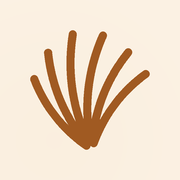
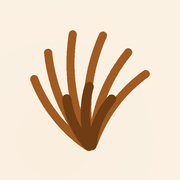
deploy 20260612-0212

Changed region(s): [[0.3333, 0.4444, 0.6667, 0.8611]]

diff --git a/index.html b/index.html
@@ -16,8 +16,8 @@
 @font-face{font-family:"Source Serif 4";src:url("./fonts/source-serif-italic-var.woff2") format("woff2");font-style:italic;font-weight:200 900;font-display:swap}
 @font-face{font-family:"Archivo";src:url("./fonts/archivo-var.woff2") format("woff2");font-weight:100 900;font-display:swap}
 </style>
-  <script type="module" crossorigin src="./assets/index-CzlzAZri.js"></script>
-  <link rel="stylesheet" crossorigin href="./assets/style-mKCXeVQG.css">
+  <script type="module" crossorigin src="./assets/index-DA186V-A.js"></script>
+  <link rel="stylesheet" crossorigin href="./assets/style-CMsRU46P.css">
 </head>
 <body>
 <div id="root"></div>

diff --git a/sw.js b/sw.js
@@ -2,8 +2,8 @@
    Hashed assets + fonts: cache-first (immutable). index.html, manifest, trip-data.enc:
    network-first with a short timeout, falling back to cache, so a weak signal never
    blocks boot. Cache name is stamped per deploy; old caches die on activate.
-   20260612015424 is substituted by scripts/deploy.sh. */
-const CACHE = "excurse-20260612015424";
+   20260612021247 is substituted by scripts/deploy.sh. */
+const CACHE = "excurse-20260612021247";
 const NET_TIMEOUT = 3500;
 
 self.addEventListener("install", () => self.skipWaiting());

diff --git a/assets/style-CMsRU46P.css b/assets/style-CMsRU46P.css
@@ -1,0 +1,2 @@
+*{-webkit-tap-highlight-color:transparent}:root{--paper:#faf7f2;--paper-deep:#f1ece2;--ink:#1c1915;--ink-soft:#575046;--ink-faint:#8b8276;--line:#dcd5c9;--trip-accent:#2f6b8a;--on-accent:#fff;--call-ahead:#9a6a1b;--breaking:#ae352c;--confirmed:#2f6b4d;--font-ui:"Inter",system-ui,-apple-system,sans-serif;--font-voice:"Source Serif 4",Georgia,serif;--font-display:"Archivo",var(--font-ui);--fs-caption:.75rem;--fs-meta:.8125rem;--fs-body:.9375rem;--fs-emph:1.0625rem;--fs-title:1.25rem;--fs-day:1.5rem;--fs-display:2rem;--fs-clock:2.75rem;--lh-tight:1.2;--lh-body:1.45;--s1:4px;--s2:8px;--s3:12px;--s4:16px;--s5:24px;--s6:40px;--s7:64px;--tap:48px;--r-card:12px;--r-sheet:20px;--r-chip:999px;--shadow-sheet:0 -8px 32px #1c191529;--t-micro:.14s;--t-state:.24s;--t-trans:.42s;--t-set:.7s;--ease-out:cubic-bezier(.2,.8,.2,1);--ease-cam:cubic-bezier(.45,0,.15,1);--z-thread:10;--z-pocket:50;--z-overlay:60;--z-veil:100;--bg:var(--paper);--fg:var(--ink)}[data-mode=dream]{--bg:#161826;--fg:#eceaf2;--ember:#e27840}[data-mode=shape]{--bg:var(--paper);--fg:var(--ink)}[data-mode=field]{--bg:#fff;--fg:#111009}[data-mode=field][data-theme=dark]{--bg:#121110;--fg:#f4f1ea;--call-ahead:#e6a84f}[data-mode=afterglow]{--bg:#f7efe3;--fg:#231a12;--ember:#b5722b}html[data-mode=field]{font-size:112.5%}.num{font-variant-numeric:tabular-nums}.voice{font-family:var(--font-voice);font-style:italic}.display{font-family:var(--font-display);font-weight:600;font-stretch:75%}@media (prefers-reduced-motion:reduce){:root{--t-micro:0s;--t-state:80ms;--t-trans:80ms;--t-set:80ms}}html[data-palette=la-summer]{--bg:#fbf1e3;--fg:#2a2118;--ink-faint:#a08c72;--ink-soft:#6b5b45;--line:#efe3cc;--paper-deep:#f3e6d0;--trip-accent:#a05a22}html[data-palette=la-summer][data-theme=dark]{--bg:#201a12;--fg:#f4ead9;--ink-faint:#a8917a;--ink-soft:#d6c3a8;--line:#3a2f22;--paper-deep:#2a2318;--trip-accent:#c98d52}html[data-palette=pacific]{--bg:#f4f6f2;--fg:#1a211d;--ink-faint:#7e8b82;--ink-soft:#4e5c53;--line:#dde4dc;--paper-deep:#e9efe7;--trip-accent:#3f7464}html[data-palette=pacific][data-theme=dark]{--bg:#161b18;--fg:#e2eae4;--ink-faint:#8a9990;--ink-soft:#b4c4ba;--line:#2c3630;--paper-deep:#1e2520;--trip-accent:#7fa795}html[data-palette=golden-hour]{--bg:#fcead4;--fg:#2b1d0e;--ink-faint:#a98b62;--ink-soft:#7a5c38;--line:#f0d9b7;--paper-deep:#f6e0c2;--trip-accent:#c2571b}html[data-palette=golden-hour][data-theme=dark]{--bg:#221409;--fg:#f4e3cc;--ink-faint:#b08a5f;--ink-soft:#d6b894;--line:#44301c;--paper-deep:#2c1d10;--trip-accent:#e78a45}html[data-palette=marine-layer]{--bg:#eff2f4;--fg:#1c2226;--ink-faint:#8a969e;--ink-soft:#51606b;--line:#dce3e8;--paper-deep:#e4eaee;--trip-accent:#4a7186}html[data-palette=marine-layer][data-theme=dark]{--bg:#14181b;--fg:#e4eaee;--ink-faint:#8fa0ab;--ink-soft:#b9c7d1;--line:#2a3339;--paper-deep:#1c2226;--trip-accent:#7fa4b9}html[data-palette=matcha]{--bg:#f3f4e8;--fg:#20241a;--ink-faint:#939a7e;--ink-soft:#5c6648;--line:#e2e5ce;--paper-deep:#eaedda;--trip-accent:#5f7a3d}html[data-palette=matcha][data-theme=dark]{--bg:#181b12;--fg:#e9eddc;--ink-faint:#99a284;--ink-soft:#c2ccab;--line:#303626;--paper-deep:#21251a;--trip-accent:#97b264}html[data-palette=ktown-neon]{--bg:#fbeff4;--fg:#241318;--ink-faint:#a4798b;--ink-soft:#6e4356;--line:#f2dce6;--paper-deep:#f6e3ec;--trip-accent:#c2347e}html[data-palette=ktown-neon][data-theme=dark]{--bg:#150a10;--fg:#f6e4ee;--ink-faint:#a77e92;--ink-soft:#d3a8bf;--line:#3a2230;--paper-deep:#20121a;--trip-accent:#f056a8}html[data-palette=paper][data-theme=dark]{--bg:#1b1916;--fg:#efeae2;--ink-faint:#9a9184;--ink-soft:#c9c0b2;--line:#332f29;--paper-deep:#242019;--trip-accent:#c9a06a}html[data-typestyle=editorial]{--font-display:Georgia,"Iowan Old Style","Times New Roman",serif}html[data-typestyle=editorial] .display{font-weight:600;font-stretch:100%}html[data-typestyle=soft]{--font-display:var(--font-ui);--r-card:16px}html[data-typestyle=soft] .display{letter-spacing:-.01em;font-weight:700;font-stretch:100%}html[data-ts=large]{font-size:115%}html[data-mode=field][data-ts=large]{font-size:126%}*{box-sizing:border-box;min-width:0}html,body{margin:0}body{background:var(--bg);color:var(--fg);font-family:var(--font-ui);font-size:var(--fs-body);line-height:var(--lh-body);overflow-wrap:break-word}button{font:inherit;color:inherit;cursor:pointer;min-height:var(--tap);background:0 0;border:0;padding:0}a{color:inherit}:focus-visible{outline:2px solid var(--trip-accent);outline-offset:2px;border-radius:4px}.page{max-width:560px;padding:var(--s3) var(--s4) calc(96px + env(safe-area-inset-bottom));margin:0 auto}.pagehead{padding:var(--s4) 0 var(--s2);justify-content:space-between;align-items:baseline;display:flex}.pagehead .display{font-size:var(--fs-display)}.pagehead .sub{color:var(--ink-faint);font-size:var(--fs-meta)}.greet{padding:var(--s4) 0 var(--s2)}.greet h1{font-size:var(--fs-day);font-weight:600;line-height:var(--lh-tight);margin:0}.greet .sub{color:var(--ink-faint);font-size:var(--fs-meta);margin-top:var(--s1)}.tabbar{z-index:var(--z-pocket);background:var(--bg);border-top:1.5px solid var(--line);padding:var(--s2) var(--s2) calc(var(--s2) + env(safe-area-inset-bottom));justify-content:space-around;align-items:stretch;display:flex;position:fixed;bottom:0;left:0;right:0}.tabbar .tab{font-size:var(--fs-caption);color:var(--ink-faint);border-radius:var(--r-card);flex-direction:column;flex:1;align-items:center;gap:2px;display:flex}.tabbar .tab svg{width:22px;height:22px}.tabbar .tab[aria-selected=true]{color:var(--trip-accent);font-weight:600}.tabbar .wallet-btn{background:var(--trip-accent);width:58px;height:58px;color:var(--on-accent);box-shadow:var(--shadow-sheet);border:3px solid var(--bg);border-radius:50%;flex:none;justify-content:center;align-items:center;margin-top:-26px;display:flex}.tabbar .wallet-btn svg{width:26px;height:26px}.hero{border:1.5px solid var(--line);border-radius:var(--r-card);padding:var(--s5);margin-top:var(--s3);background:var(--bg)}.hero .leaveby{font-size:var(--fs-caption);letter-spacing:.1em;color:var(--trip-accent);font-weight:600}.hero .clock{font-size:var(--fs-clock);margin:var(--s1) 0;line-height:1.05}.hero .in{color:var(--ink-faint);font-size:var(--fs-meta)}.hero h2{font-size:var(--fs-title);margin:var(--s3) 0 var(--s1);font-weight:600;line-height:var(--lh-tight)}.hero .fact{color:var(--ink-soft)}.hero .ring-row{align-items:center;gap:var(--s4);justify-content:space-between;display:flex}.meanwhile{margin-top:var(--s4);color:var(--ink-faint);font-size:var(--fs-meta);text-align:left;width:100%;padding:var(--s2) 0}.later{margin-top:var(--s5)}.later .lbl,.seclbl{font-size:var(--fs-caption);letter-spacing:.08em;color:var(--ink-faint);text-transform:uppercase;margin-bottom:var(--s1)}.later .row{gap:var(--s3);padding:var(--s3) 0;border-top:1px solid var(--line);text-align:left;align-items:baseline;width:100%;display:flex}.later .row .t{color:var(--ink-faint);min-width:72px;font-size:var(--fs-meta);flex:none}.daychips{gap:var(--s2);padding:var(--s2) 0 var(--s3);scrollbar-width:none;display:flex;overflow-x:auto}.daychips::-webkit-scrollbar{display:none}.daychips button{border:1.5px solid var(--line);min-width:56px;height:56px;font-weight:600;font-size:var(--fs-emph);border-radius:50%;flex:none;justify-content:center;align-items:center;display:flex}.daychips button[aria-selected=true]{background:var(--trip-accent);color:var(--on-accent);border-color:var(--trip-accent)}.daychips button .d{font-size:var(--fs-caption);font-weight:400;display:block}.dayhead{padding:var(--s2) 0}.brief{color:var(--ink-faint);font-size:var(--fs-meta);margin-top:var(--s1)}.card{border:1.5px solid var(--line);border-radius:var(--r-card);margin:var(--s3) 0;background:var(--bg)}.card.single{border-style:dashed}.card.backupghost{opacity:.8;border-style:dashed;width:94%;margin-left:auto}.card.freeform{background:var(--paper-deep);border-style:none}.card.past{opacity:.55}.card>summary{padding:var(--s4);cursor:pointer;min-height:var(--tap);list-style:none;position:relative}.card>summary::-webkit-details-marker{display:none}.card>summary:after{content:"";right:var(--s4);border-right:1.5px solid var(--ink-faint);border-bottom:1.5px solid var(--ink-faint);width:8px;height:8px;transition:transform var(--t-micro);position:absolute;top:calc(50% - 4px);transform:rotate(45deg)}.card[open]>summary:after{transform:rotate(225deg)}.meta-row{gap:var(--s2);font-size:var(--fs-meta);color:var(--ink-faint);padding-right:var(--s5);flex-wrap:wrap;align-items:baseline;display:flex}.card h3{margin:var(--s1) 0 0;font-size:var(--fs-emph);font-weight:600;line-height:var(--lh-tight);padding-right:var(--s5)}.card.struck h3{color:var(--ink-faint);text-decoration:line-through}.card .fact{color:var(--ink-soft);font-size:var(--fs-meta);margin-top:var(--s1)}.card .body{padding:0 var(--s4) var(--s4)}.voiceline{text-align:left;width:100%;color:var(--ink-soft);font-size:var(--fs-emph);padding:var(--s2) 0;line-height:var(--lh-body);display:block}.voiceline.clamped{-webkit-line-clamp:2;-webkit-box-orient:vertical;display:-webkit-box;overflow:hidden}.lrow{gap:var(--s2);margin:var(--s2) 0;font-size:var(--fs-meta);color:var(--ink-soft);display:flex}.lrow .k{color:var(--ink-faint);flex:none;min-width:72px}.headsup{margin:var(--s2) 0;font-size:var(--fs-meta);color:var(--ink-soft)}.actchips{gap:var(--s2);margin-top:var(--s3);flex-wrap:wrap;display:flex}.chip{border:1.5px solid var(--line);border-radius:var(--r-chip);padding:var(--s2) var(--s4);font-size:var(--fs-meta);min-height:var(--tap);background:var(--bg);align-items:center;text-decoration:none;display:inline-flex}.chip.primary{background:var(--trip-accent);color:var(--on-accent);border-color:var(--trip-accent)}.chip.callahead{border-color:var(--call-ahead);color:var(--call-ahead)}.receipts{margin-top:var(--s3);font-size:var(--fs-caption);color:var(--ink-faint)}.fork-tag{font-size:var(--fs-caption);letter-spacing:.06em;color:var(--trip-accent)}.pocket-tag{font-size:var(--fs-caption);letter-spacing:.06em;color:var(--ink-faint)}.option{border:1px solid var(--line);border-radius:var(--r-card);padding:var(--s3);margin:var(--s2) 0}.option .read{font-size:var(--fs-meta);color:var(--ink-soft);font-family:var(--font-voice);font-style:italic}.option .tr{font-size:var(--fs-caption);color:var(--ink-faint);margin-top:var(--s1)}.flap{border:1px dashed var(--line);border-left:3px solid var(--line);border-radius:0 var(--r-card) var(--r-card) 0;margin:0 0 var(--s3) var(--s4);background:var(--paper-deep)}.flap>summary{padding:var(--s3) var(--s4);font-size:var(--fs-meta);color:var(--ink-faint);cursor:pointer;min-height:var(--tap);align-items:center;list-style:none;display:flex}.flap>summary::-webkit-details-marker{display:none}.flap .g-ent{padding:var(--s3) var(--s4);border-top:1px solid var(--line)}.flap .g-ent .nm{font-weight:600;font-size:var(--fs-meta)}.flap .g-ent .hrs{color:var(--trip-accent);font-size:var(--fs-caption);margin-left:var(--s2)}.flap .g-ent .why{font-size:var(--fs-meta);color:var(--ink-soft)}.dayrail{padding-left:var(--s5);position:relative}.dayrail:before{content:"";background:var(--line);width:1.5px;position:absolute;top:0;bottom:0;left:9px}.railnode{background:var(--bg);border:1.5px solid var(--ink-faint);border-radius:50%;width:13px;height:13px;margin-top:26px;position:absolute;left:3px}.railnode.decision{border-color:var(--trip-accent);border-radius:2px;transform:rotate(45deg)}.railnode.backupn{border-style:dotted}.wsheet-scrim{z-index:var(--z-overlay);opacity:0;pointer-events:none;transition:opacity var(--t-state);background:#[phone redacted];position:fixed;top:0;bottom:0;left:0;right:0}.wsheet-scrim.open{opacity:1;pointer-events:auto}.wsheet{z-index:var(--z-overlay);background:var(--paper-deep);border-radius:var(--r-sheet) var(--r-sheet) 0 0;box-shadow:var(--shadow-sheet);transition:transform var(--t-trans) var(--ease-out);flex-direction:column;max-height:90dvh;display:flex;position:fixed;bottom:0;left:0;right:0;transform:translateY(102%)}.wsheet.open{transform:none}.wsheet .whead{padding:var(--s4) var(--s5) var(--s2);justify-content:space-between;align-items:center;display:flex}.wsheet .whead .display{font-size:var(--fs-title)}.wsheet .whead button{color:var(--ink-faint);font-size:var(--fs-meta);padding:0 var(--s2)}.wstack{padding:var(--s3) var(--s4) calc(var(--s6) + env(safe-area-inset-bottom));overflow:auto}.wcard{border-radius:var(--r-card);background:var(--bg);border:1.5px solid var(--line);margin-top:calc(-1 * var(--s7));text-align:left;width:100%;transition:margin var(--t-state) var(--ease-out);padding:0;display:block;overflow:hidden;box-shadow:0 -4px 16px #1c19151a}.wcard .band{background:var(--trip-accent);height:6px}.wcard.k-stay .band{background:var(--confirmed)}.wcard.k-car .band{background:var(--call-ahead)}.wcard.k-policy .band{background:var(--ink-faint)}.wcard.k-other .band{background:var(--ink-soft)}.wcard .wface{padding:var(--s4) var(--s5) var(--s5)}.wcard .kind{font-size:var(--fs-caption);color:var(--ink-faint);letter-spacing:.08em;text-transform:uppercase}.wcard .nm{font-weight:600;font-size:var(--fs-emph);line-height:var(--lh-tight);margin-top:2px}.wcard .peek{color:var(--ink-faint);font-size:var(--fs-meta);white-space:nowrap;text-overflow:ellipsis;margin-top:2px;overflow:hidden}.wcard.active,.wcard.active~.wcard{margin-top:var(--s3)}.wbody{padding:0 var(--s5) var(--s5)}.wbody .bigcode{font-size:var(--fs-display);font-family:var(--font-display);letter-spacing:.04em;padding:var(--s2) 0 var(--s3);text-align:left;word-break:break-all;width:100%;font-weight:600;font-stretch:75%}.wbody .bigcode.copied{color:var(--confirmed)}.wbody .note{font-size:var(--fs-body);color:var(--ink-soft);padding:var(--s2) 0}.wbody .row{gap:var(--s3);padding:var(--s2) 0;border-top:1px solid var(--line);font-size:var(--fs-meta);display:flex}.wbody .row .k{color:var(--ink-faint);flex:none;width:108px}.wbody .row .v{flex:1}.seg{gap:var(--s1);background:var(--paper-deep);border-radius:var(--r-chip);margin:var(--s2) 0 var(--s4);scrollbar-width:none;padding:4px;display:flex;overflow-x:auto}.seg::-webkit-scrollbar{display:none}.seg button{white-space:nowrap;border-radius:var(--r-chip);padding:var(--s2) var(--s4);font-size:var(--fs-meta);flex:1;min-height:40px}.seg button[aria-selected=true]{background:var(--bg);font-weight:600;box-shadow:0 1px 4px #1c19151f}.seg .badge{font-size:var(--fs-caption);color:var(--ink-faint);margin-left:6px}.demand{border:1.5px solid var(--line);border-radius:var(--r-card);padding:var(--s4);margin:var(--s3) 0}.demand .nm{font-weight:600;font-size:var(--fs-emph)}.demand .why{color:var(--ink-soft);font-size:var(--fs-meta);margin:var(--s1) 0 var(--s3)}.slotrow{align-items:center;gap:var(--s3);margin:var(--s2) 0;display:flex}.slotrow .k{font-size:var(--fs-caption);letter-spacing:.06em;text-transform:uppercase;color:var(--trip-accent);flex:none;width:88px}.slotrow input{border:0;border-bottom:1.5px solid var(--line);color:var(--fg);font:inherit;font-size:var(--fs-meta);padding:var(--s2) 2px;min-height:var(--tap);background:0 0;border-radius:0;flex:1}.slotrow input:focus{border-bottom-color:var(--trip-accent);outline:none}.slotrow input::placeholder{color:var(--ink-faint);font-style:italic}.pcat{margin:var(--s4) 0}.pcat .ph{justify-content:space-between;align-items:baseline;display:flex}.pcat .ph .nm{font-weight:600}.pcat .prog{font-size:var(--fs-caption);color:var(--ink-faint);border:1px solid var(--line);border-radius:var(--r-chip);padding:2px 10px}.pcat .prog.done{color:var(--confirmed);border-color:var(--confirmed)}.checkrow{gap:var(--s3);padding:var(--s3) 0;border-top:1px solid var(--line);align-items:flex-start;display:flex}.checkrow input{width:22px;height:22px;accent-color:var(--trip-accent);flex:none;margin-top:2px}.checkrow label,.checkrow .le-textwrap{flex:1}.checkrow .why{color:var(--ink-faint);font-size:var(--fs-caption);display:block}.checkrow.done label{color:var(--ink-faint)}.checkrow.done .main{text-decoration:line-through}.le-text{-webkit-line-clamp:2;-webkit-box-orient:vertical;display:-webkit-box;overflow:hidden}.le-text.full{display:block}.le-more{color:var(--trip-accent);font-size:var(--fs-caption);padding:var(--s1) 0;min-height:0}.le-due{color:var(--call-ahead);font-size:var(--fs-caption)}.donewrap{margin-top:var(--s5)}.donewrap>summary{cursor:pointer;color:var(--ink-faint);font-size:var(--fs-meta);padding:var(--s3) 0;min-height:var(--tap);align-items:center;gap:var(--s2);list-style:none;display:flex}.donewrap>summary::-webkit-details-marker{display:none}.emptystate{border:1.5px dashed var(--line);border-radius:var(--r-card);padding:var(--s5);color:var(--ink-faint);text-align:center;margin:var(--s4) 0}.pastefield{border:1.5px solid var(--line);border-radius:var(--r-card);background:var(--bg);width:100%;color:var(--fg);font:inherit;font-size:var(--fs-meta);padding:var(--s4);min-height:88px}.set-group{margin:var(--s5) 0}.set-group .lbl{font-size:var(--fs-caption);letter-spacing:.08em;text-transform:uppercase;color:var(--ink-faint);margin-bottom:var(--s2)}.set-row{gap:var(--s2);flex-wrap:wrap;display:flex}.set-row button,.set-row a{border:1.5px solid var(--line);border-radius:var(--r-chip);padding:var(--s2) var(--s4);font-size:var(--fs-meta);align-items:center;gap:var(--s2);min-height:var(--tap);background:var(--bg);text-decoration:none;display:inline-flex}.set-row [aria-pressed=true]{border-color:var(--trip-accent);color:var(--trip-accent);font-weight:600}.swatch{border:1px solid var(--line);border-radius:50%;flex:none;width:16px;height:16px}.veil{z-index:var(--z-veil);background:var(--bg);padding:var(--s5);text-align:center;justify-content:center;align-items:center;display:flex;position:fixed;top:0;bottom:0;left:0;right:0;overflow:hidden}.veil .box{z-index:2;width:min(360px,92vw);position:relative}.veil .box:before{content:"";z-index:-1;background:radial-gradient(closest-side,var(--bg) 55%,transparent);position:absolute;top:-12%;bottom:-12%;left:-12%;right:-12%}.veil h1{font-size:var(--fs-display);margin:0 0 var(--s2)}.veil p{color:var(--ink-faint);font-size:var(--fs-meta)}.veil input{border:1.5px solid var(--line);border-radius:var(--r-card);width:100%;padding:var(--s4);font-size:var(--fs-emph);background:var(--bg);color:var(--fg);text-align:center;margin:var(--s4) 0}.veil .go{background:var(--trip-accent);width:100%;color:var(--on-accent);border-radius:var(--r-card);padding:var(--s4);font-weight:600}.veil.err .box{animation:shake var(--t-micro) 1}@keyframes shake{25%{transform:translate(-6px)}75%{transform:translate(6px)}}.lens-grid{gap:var(--s3);margin-top:var(--s4);flex-wrap:wrap;justify-content:center;display:flex}.lens-grid button{border:1.5px solid var(--line);border-radius:var(--r-chip);padding:var(--s3) var(--s5);font-size:var(--fs-emph)}.sect{margin:var(--s3) 0}.sect h4{font-size:var(--fs-caption);letter-spacing:.1em;text-transform:uppercase;color:var(--trip-accent);margin:0 0 var(--s1);border-bottom:1.5px solid var(--line);padding-bottom:3px;font-weight:600;display:inline-block}.sect p{margin:var(--s1) 0;color:var(--ink-soft);font-size:var(--fs-meta);line-height:var(--lh-body)}.card h3,.demand .nm,.pcat .ph .nm,.wcard .nm,.hero h2,.greet h1{font-family:var(--font-display);font-stretch:75%}html[data-typestyle=editorial] .card h3,html[data-typestyle=editorial] .demand .nm,html[data-typestyle=editorial] .pcat .ph .nm,html[data-typestyle=editorial] .wcard .nm,html[data-typestyle=editorial] .hero h2,html[data-typestyle=editorial] .greet h1{font-stretch:100%}html[data-typestyle=soft] .card h3,html[data-typestyle=soft] .demand .nm,html[data-typestyle=soft] .pcat .ph .nm,html[data-typestyle=soft] .wcard .nm,html[data-typestyle=soft] .hero h2,html[data-typestyle=soft] .greet h1{letter-spacing:-.01em;font-stretch:100%}.wcard{margin-top:-10px}.wstack .wcard:first-child{margin-top:0}.wcard .wface{justify-content:space-between;align-items:center;gap:var(--s3);text-align:left;width:100%;padding:var(--s4) var(--s5);min-height:var(--tap);display:flex}.wcard .wface .nm{font-size:var(--fs-emph);white-space:nowrap;text-overflow:ellipsis;margin:0;overflow:hidden}.wcard .wface .kind{flex:none}.wcard.active{margin:var(--s3) 0}.wcard.active+.wcard{margin-top:var(--s3)}.wsect{font-size:var(--fs-caption);letter-spacing:.1em;text-transform:uppercase;color:var(--trip-accent);margin:var(--s4) 0 var(--s1);border-bottom:1.5px solid var(--line);padding-bottom:3px;font-weight:600;display:inline-block}.seg button{justify-content:center;align-items:center;gap:6px;display:inline-flex}.segbadge{background:var(--line);color:var(--ink-soft);border-radius:var(--r-chip);font-size:var(--fs-caption);padding:4px 8px;line-height:1}.seg button[aria-selected=true] .segbadge{background:var(--trip-accent);color:var(--on-accent)}.le-body{flex:1;min-width:0}.le-foot{margin-top:var(--s1);justify-content:space-between;align-items:center;display:flex}.le-chev{width:40px;min-height:32px;color:var(--ink-faint);justify-content:flex-start;align-items:center;display:flex}.le-chev svg{transition:transform var(--t-micro)}.le-chev.open svg{transform:rotate(180deg)}.le-due{color:var(--call-ahead);font-size:var(--fs-caption);margin-left:auto}.hint{color:var(--ink-faint);font-size:var(--fs-meta);margin:var(--s1) 0 var(--s3)}.slotrow{align-items:flex-start}.slotrow .k .rec{color:var(--ink-faint);text-transform:none;letter-spacing:0}.chipfield{align-items:center;gap:var(--s1);min-height:var(--tap);border-bottom:1.5px solid var(--line);padding-bottom:var(--s2);flex-wrap:wrap;flex:1;display:flex}.fitchip{border:1px solid var(--line);background:var(--paper-deep);border-radius:8px;align-items:center;max-width:100%;display:inline-flex}.fitchip-main{font-size:var(--fs-meta);text-align:left;min-height:32px;padding:6px 10px}.fitchip.open{border-color:var(--breaking)}.fitchip-x{min-height:32px;color:var(--breaking);font-size:var(--fs-emph);padding:0 10px}.fitplus{color:var(--trip-accent);font-size:var(--fs-meta);min-height:32px;padding:4px 8px}.fitadd{border:0;border-bottom:1.5px solid var(--trip-accent);color:var(--fg);font:inherit;font-size:var(--fs-meta);background:0 0;border-radius:0;min-width:130px;padding:4px 2px}.fitadd:focus{outline:none}.wip{border:1px dashed var(--call-ahead);color:var(--call-ahead);border-radius:var(--r-chip);margin-left:var(--s2);letter-spacing:.04em;text-transform:none;padding:2px 8px;font-size:10px;font-weight:400}.wpeek{align-items:center;gap:var(--s3);text-align:left;border:1.5px solid var(--line);border-radius:var(--r-card);width:100%;padding:var(--s4);background:var(--bg);display:flex}.wpeek .kind{font-size:var(--fs-caption);color:var(--trip-accent);letter-spacing:.08em;text-transform:uppercase;flex:none}.wpeek .nm{white-space:nowrap;text-overflow:ellipsis;flex:1;min-width:0;font-weight:600;overflow:hidden}.wpeek .code{color:var(--ink-faint);font-size:var(--fs-meta);flex:none}.progressbar{background:var(--paper-deep);border:1px solid var(--line);border-radius:3px;height:6px;display:block;overflow:hidden}.progressbar i{background:var(--trip-accent);height:100%;display:block}.le-note{color:var(--ink-faint);font-size:var(--fs-meta);margin-top:var(--s2);line-height:var(--lh-body);display:block}.veil,.splash{padding-top:calc(var(--s5) + env(safe-area-inset-top))}.splash{z-index:var(--z-veil);background:var(--bg);text-align:center;justify-content:center;align-items:center;display:flex;position:fixed;top:0;bottom:0;left:0;right:0;overflow:hidden}.splash-box{z-index:2;padding:var(--s6) var(--s5);animation:rise var(--t-set) var(--ease-out) both;position:relative}.splash-box:before{content:"";z-index:-1;background:radial-gradient(closest-side,var(--bg) 52%,transparent);position:absolute;top:-14%;bottom:-14%;left:-14%;right:-14%}.splash-mark{font-family:var(--font-voice);color:var(--trip-accent);font-style:italic;font-size:var(--fs-title);letter-spacing:.05em;margin-bottom:var(--s4)}.splash-box h1{font-family:var(--font-voice);letter-spacing:-.01em;margin:0;font-size:max(2.4rem,min(9vw,3.2rem));font-style:italic;font-weight:620;line-height:1.08}.splash-dates{color:var(--ink-soft);margin-top:var(--s3);font-size:var(--fs-meta);letter-spacing:.16em;text-transform:uppercase}.splash-welcome{color:var(--trip-accent);font-size:var(--fs-title);margin-top:var(--s4)}@keyframes rise{0%{opacity:0;transform:translateY(14px)}to{opacity:1;transform:none}}.veil h1{font-family:var(--font-voice);letter-spacing:-.01em;font-size:2.2rem;font-style:italic;font-weight:620;font-stretch:100%}.frond{--base:0deg;--fsz:min(120vw,600px);width:var(--fsz);z-index:1;fill:none;height:auto;stroke:var(--trip-accent);opacity:.5;left:calc(var(--fsz) * -.05 - 10px);bottom:calc(var(--fsz) * -.05 - 10px);transform:rotate(var(--base));transform-origin:5% 95%;animation:frondenter 1.2s var(--ease-out) both,frondsway 6s ease-in-out 2.2s infinite alternate;position:absolute}.frond.flip{--base:180deg;bottom:auto;left:auto;right:calc(var(--fsz) * -.05 - 10px);top:calc(var(--fsz) * -.05 - 10px);transform-origin:50%}.frond .leaf{stroke-linecap:round;opacity:0;animation:leafin .42s var(--ease-out) both;animation-delay:var(--d)}.frond .leafw{transform-box:view-box;transform-origin:8px 152px;transform:rotate(var(--rot)) scale(var(--ls,1))}.frond .leafw.back .leaf{opacity:0;stroke:color-mix(in srgb,var(--trip-accent) 55%,var(--bg) 45%);animation:leafin-back .42s var(--ease-out) both;animation-delay:var(--d)}@keyframes leafin-back{to{opacity:.75}}.frond .leafw.fore .leaf{stroke-width:3px;opacity:0;stroke:color-mix(in srgb,var(--trip-accent) 62%,var(--fg) 38%);animation:leafin .42s var(--ease-out) both;animation-delay:var(--d)}@keyframes leafin{to{opacity:1}}@keyframes frondenter{0%{transform:rotate(calc(var(--base) - 8deg)) scale(.55);opacity:0}}@keyframes frondsway{0%{transform:rotate(var(--base))}to{transform:rotate(calc(var(--base) + 1.6deg))}}@media (prefers-reduced-motion:reduce){.frond{opacity:.5;animation:none}.frond .leafw,.frond .leaf{opacity:1;animation:none}.splash-box{animation:none}}.timeshift{justify-content:center;align-items:center;gap:var(--s4);margin-top:var(--s2);color:var(--ink-faint);display:flex}.timeshift button{min-width:44px;min-height:36px;font-size:var(--fs-emph);color:var(--ink-faint)}.timeshift button:disabled{opacity:.25}.timeshift .backnow{font-size:var(--fs-caption);color:var(--trip-accent);min-width:auto}.daytheme{font-size:var(--fs-emph);color:var(--ink-soft);margin-top:var(--s2)}.daymeta{gap:var(--s4);margin-top:var(--s2);font-size:var(--fs-caption);letter-spacing:.06em;text-transform:uppercase;color:var(--ink-faint);flex-wrap:wrap;display:flex}.seg button{padding:var(--s2) var(--s4);flex:none}.slotrow .k{flex-direction:column;gap:2px;width:88px;display:flex}.slotrow .k .rec{font-size:var(--fs-caption);color:var(--ink-faint);letter-spacing:0;text-transform:none}.demand>summary,.pcat>summary{cursor:pointer;justify-content:space-between;align-items:center;gap:var(--s3);min-height:var(--tap);list-style:none;display:flex}.demand>summary::-webkit-details-marker{display:none}.pcat>summary::-webkit-details-marker{display:none}.demand .dprog{font-size:var(--fs-caption);color:var(--ink-faint);border:1px solid var(--line);border-radius:var(--r-chip);flex:none;padding:3px 10px}.demand .dbody{padding-top:var(--s2)}.pcat>summary{padding:var(--s2) 0}html[data-typestyle=editorial]{--font-ui:Georgia,"Iowan Old Style",serif}html[data-typestyle=editorial] .num,.tabbar{font-family:Inter,system-ui,-apple-system,BlinkMacSystemFont,Segoe UI,Roboto,Noto Sans,Ubuntu,Cantarell,Helvetica Neue,sans-serif}html[data-typestyle=soft]{--font-ui:ui-rounded,"SF Pro Rounded","Inter",system-ui,sans-serif;--font-display:ui-rounded,"SF Pro Rounded","Inter",system-ui,sans-serif;--r-card:18px;--r-sheet:26px}html,body{height:100%;overflow:hidden}.appwrap{view-transition-name:page;transition:opacity .28s var(--ease-out);background:var(--bg);height:100dvh;padding-top:env(safe-area-inset-top);overscroll-behavior:contain;-webkit-overflow-scrolling:touch;overflow-x:hidden;overflow-y:auto}.appwrap.dim{opacity:.6}body:before{content:"";height:env(safe-area-inset-top);z-index:90;pointer-events:none;background:var(--bg);background:color-mix(in srgb,var(--bg) 82%,transparent);-webkit-backdrop-filter:blur(12px);backdrop-filter:blur(12px);position:fixed;top:0;left:0;right:0}.tabbar{view-transition-name:tabbar}::view-transition-old(root){animation:none}::view-transition-new(root){animation:none}::view-transition-old(tabbar){animation:none}::view-transition-new(tabbar){animation:none}.brand{max-width:560px;padding:calc(var(--s3) + 2px) var(--s4) 2px;color:var(--trip-accent);font-family:var(--font-voice);font-style:italic;font-size:var(--fs-emph);letter-spacing:.04em;view-transition-name:brand;justify-content:flex-end;align-items:center;gap:8px;margin:0 auto;display:flex}.brand svg{opacity:.9;flex:none}::view-transition-old(brand){animation:none}::view-transition-new(brand){animation:none}.brand-word{display:inline-block;position:relative}.byco{font-family:var(--font-ui);letter-spacing:.14em;color:var(--ink-faint);white-space:nowrap;font-size:.5em;font-style:normal;position:absolute;bottom:-.74em;right:0}.veil .byco{font-size:.34em;right:-1.1em}.splash .byco{right:-1.4em}html[data-navdir=forward]::view-transition-new(page){z-index:2;animation:.46s cubic-bezier(.32,.72,0,1) both vt-push-in}html[data-navdir=forward]::view-transition-old(page){animation:.46s cubic-bezier(.32,.72,0,1) both vt-push-under}html[data-navdir=backward]::view-transition-old(page){z-index:2;animation:.46s cubic-bezier(.32,.72,0,1) both vt-pop-out}html[data-navdir=backward]::view-transition-new(page){animation:.46s cubic-bezier(.32,.72,0,1) both vt-pop-reveal}@keyframes vt-push-in{0%{transform:translate(100%)}}@keyframes vt-push-under{to{transform:translate(-30%)}}@keyframes vt-pop-out{to{transform:translate(100%)}}@keyframes vt-pop-reveal{0%{transform:translate(-30%)}}html[data-navdir] .heroin,html[data-morph] .heroin,html[data-navdir] .segin,html[data-morph] .segin,html[data-navdir] .fitchip,html[data-morph] .fitchip{animation:none}html[data-navdir] details::details-content{transition:none}html[data-morph] details::details-content{transition:none}html[data-morph]::view-transition-old(page){animation:.26s cubic-bezier(.4,0,.2,1) both vt-vacate}html[data-morph]::view-transition-new(page){animation:.32s cubic-bezier(.4,0,.2,1) .2s both vt-arrive}@keyframes vt-vacate{to{opacity:0}}@keyframes vt-arrive{0%{opacity:0}}::view-transition-group(morph){z-index:40;animation-duration:.62s;animation-timing-function:cubic-bezier(.45,0,.15,1)}::view-transition-image-pair(morph){animation-duration:.62s}::view-transition-group(morphday){z-index:40;animation-duration:.82s;animation-timing-function:cubic-bezier(.3,0,.08,1)}::view-transition-image-pair(morphday){animation-duration:.82s}::view-transition-old(morphday){width:100%;height:auto;animation:.3s cubic-bezier(.4,0,.2,1) both vt-vacate}::view-transition-new(morphday){width:100%;height:auto;animation:.42s cubic-bezier(.4,0,.2,1) .2s both vt-arrive}::view-transition-old(morph){width:100%;height:auto;animation:.24s cubic-bezier(.4,0,.2,1) both vt-vacate}::view-transition-new(morph){width:100%;height:auto;animation:.34s cubic-bezier(.4,0,.2,1) .14s both vt-arrive}details::details-content{opacity:0;transition:opacity .26s var(--ease-out)}details[open]::details-content{opacity:1}@supports (animation-timing-function:linear(0,1)){.wsheet{transition:transform .9s linear(0,.0238 3.2%,.0858 6.5%,.1733 9.7%,.[phone redacted]%,.[phone redacted]%,.[phone redacted]%,.[phone redacted]%,.[phone redacted]%,.7767 29%,.[phone redacted]%,.[phone redacted]%,.[phone redacted]%,.[phone redacted]%,[phone redacted]%,[phone redacted]%,[phone redacted]%,[phone redacted]%,[phone redacted]%,[phone redacted]%,[phone redacted]%,[phone redacted]%,[phone redacted]%,[phone redacted]%,[phone redacted]%,[phone redacted]%,[phone redacted]%,[phone redacted]%,[phone redacted]%,[phone redacted]%,[phone redacted]%,1)}}.wsheet{will-change:transform}.wsheet.open .wcard{animation:cardfan .26s var(--ease-out) both;animation-delay:calc(var(--i,0)*40ms)}@keyframes cardfan{0%{opacity:0;transform:translateY(16px)}}.wcard .wgrow{visibility:hidden;transition:grid-template-rows .38s var(--ease-out),visibility 0s .38s;grid-template-rows:0fr;display:grid}.wcard .wgrow.open{visibility:visible;transition:grid-template-rows .38s var(--ease-out),visibility 0s;grid-template-rows:1fr}.wcard .wgrow-in{min-height:0;overflow:hidden}.le-notewrap{transition:grid-template-rows .3s var(--ease-out);grid-template-rows:0fr;display:grid}.le-notewrap.open{grid-template-rows:1fr}.le-notewrap>.le-note{min-height:0;overflow:hidden}.segin{animation:segin .24s var(--ease-out) both}@keyframes segin{0%{opacity:0;transform:translateY(8px)}}.dayroll .dayhead .brief{animation:rollfade .38s var(--ease-out) .6s backwards}.dayroll .dayhead .daytheme{animation:rollfade .42s var(--ease-out) .7s backwards}.dayroll .dayhead .daymeta{animation:rollfade .42s var(--ease-out) .82s backwards}.dayroll .dayrail>div{animation:rollin .44s var(--ease-cam) backwards;animation-delay:calc(.9s + min(var(--ri,0), 7) * 65ms)}@keyframes rollin{0%{opacity:0;transform:translateY(-16px)}}@keyframes rollfade{0%{opacity:0;transform:translateY(6px)}}.dayhead .display{font-size:2.1rem}.heroin{animation:heroin .24s var(--ease-out) both}@keyframes heroin{0%{opacity:0;transform:translateY(10px)}}.chip,.daychips button,.seg button,.set-row button,.tabbar .tab,.fitchip-main,.fitplus,.wallet-btn{transition:transform .14s var(--ease-out),background-color .14s var(--ease-out), border-color .14s var(--ease-out),color .14s var(--ease-out)}.chip:active,.daychips button:active,.seg button:active,.set-row button:active,.fitchip-main:active{transform:scale(.94)}.wallet-btn:active{transform:scale(.9)}.checkrow input{transition:transform .14s var(--ease-out)}.checkrow input:active{transform:scale(.85)}.checkrow label .main,.checkrow .le-textwrap .main{transition:color .14s var(--ease-out)}.fitchip{animation:chipin .14s var(--ease-out) both}@keyframes chipin{0%{opacity:0;transform:scale(.8)}}.progressbar i{transition:width .42s var(--ease-out)}.hero svg circle{transition:stroke-dashoffset 1s linear}.splash{transition:opacity .42s var(--ease-out)}.splash.leaving{opacity:0;pointer-events:none}.splash.leaving .splash-box{transition:transform .42s var(--ease-out);transform:translateY(-10px)}.pkoverall{border:1px solid var(--line);border-radius:var(--r-card);background:var(--bg);padding:var(--s3) var(--s4);margin-bottom:var(--s5)}.pkoverall .row{justify-content:space-between;margin-bottom:6px;display:flex}.spark{color:var(--trip-accent);vertical-align:-1px;flex:none;margin-right:6px}.checkrow .rowdel{min-width:36px;min-height:32px;color:var(--ink-faint);font-size:var(--fs-emph)}@media (prefers-reduced-motion:reduce){::view-transition-old(*){animation:none!important}::view-transition-new(*){animation:none!important}details::details-content{transition:none}.wsheet{transition:none}.wsheet.open .wcard,.heroin,.fitchip{animation:none}.appwrap,.progressbar i,.hero svg circle{transition:none}}
+/*$vite$:1*/

diff --git a/classic/sw.js b/classic/sw.js
@@ -1,5 +1,5 @@
 /* Field Guide service worker — cache-first shell, app-driven data refresh. */
-var CACHE = "fg-5ea2784091";
+var CACHE = "fg-50bb86401c";
 var ASSETS = ["./", "index.html", "trip.enc", "manifest.webmanifest", "sw.js", "icon-180.png", "icon-512.png"];
 
 self.addEventListener("install", function (e) {